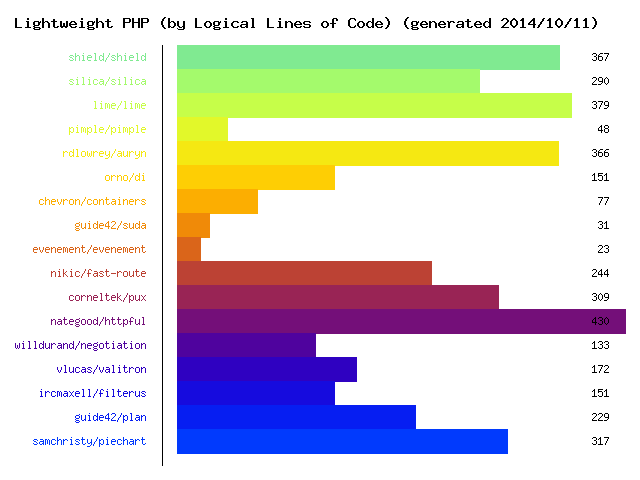
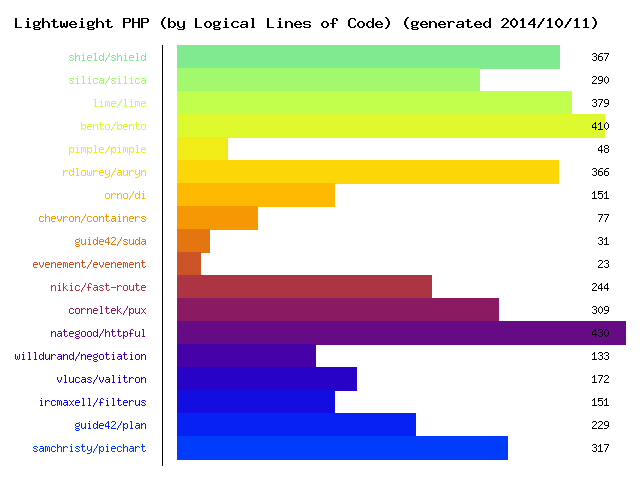
Add Bento

diff --git a/README.md b/README.md
@@ -19,6 +19,7 @@ List of lightweight PHP libraries.
 * [Shield](https://github.com/enygma/shieldframework) - A security minded microframework
 * [Silica](https://github.com/changloong/Silica) - Micro framework inspired by Silex
 * [Lime](https://github.com/aheinze/Lime) - Micro framework for quickly creating web applications with minimal effort
+* [Bento](https://github.com/nramenta/bento) - Simple PHP micro framework
 
 ## Dependency Injection
 
